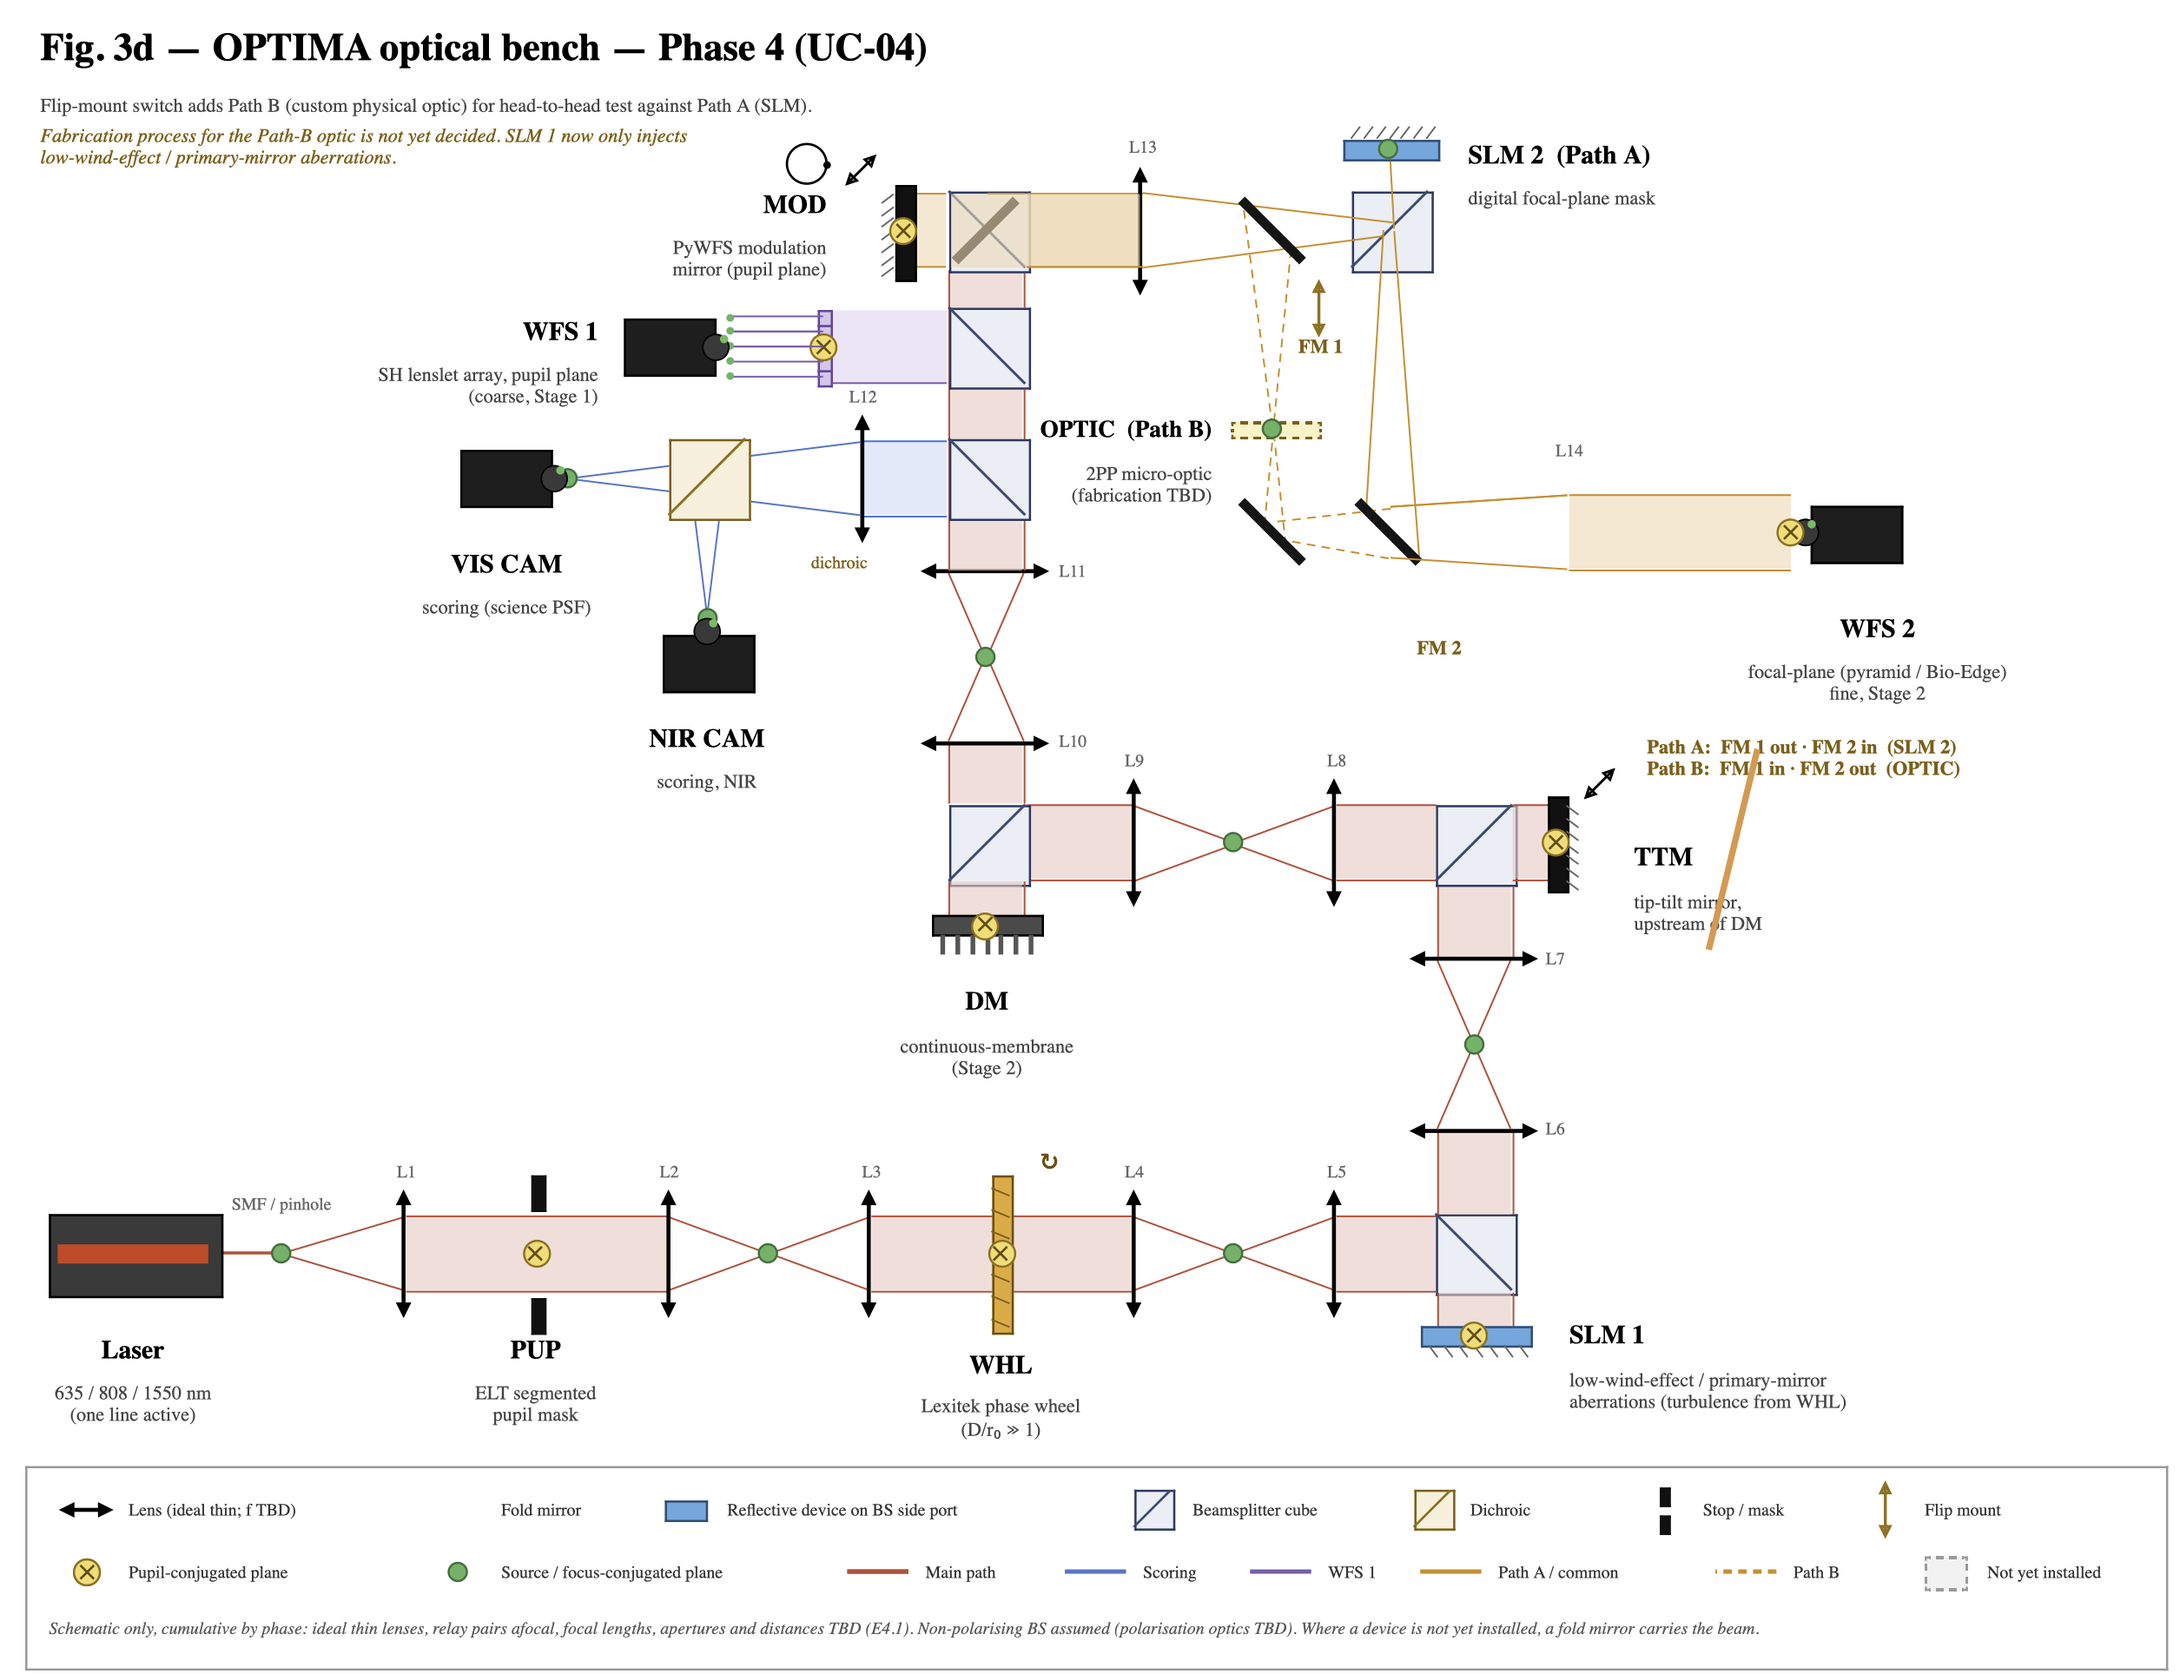
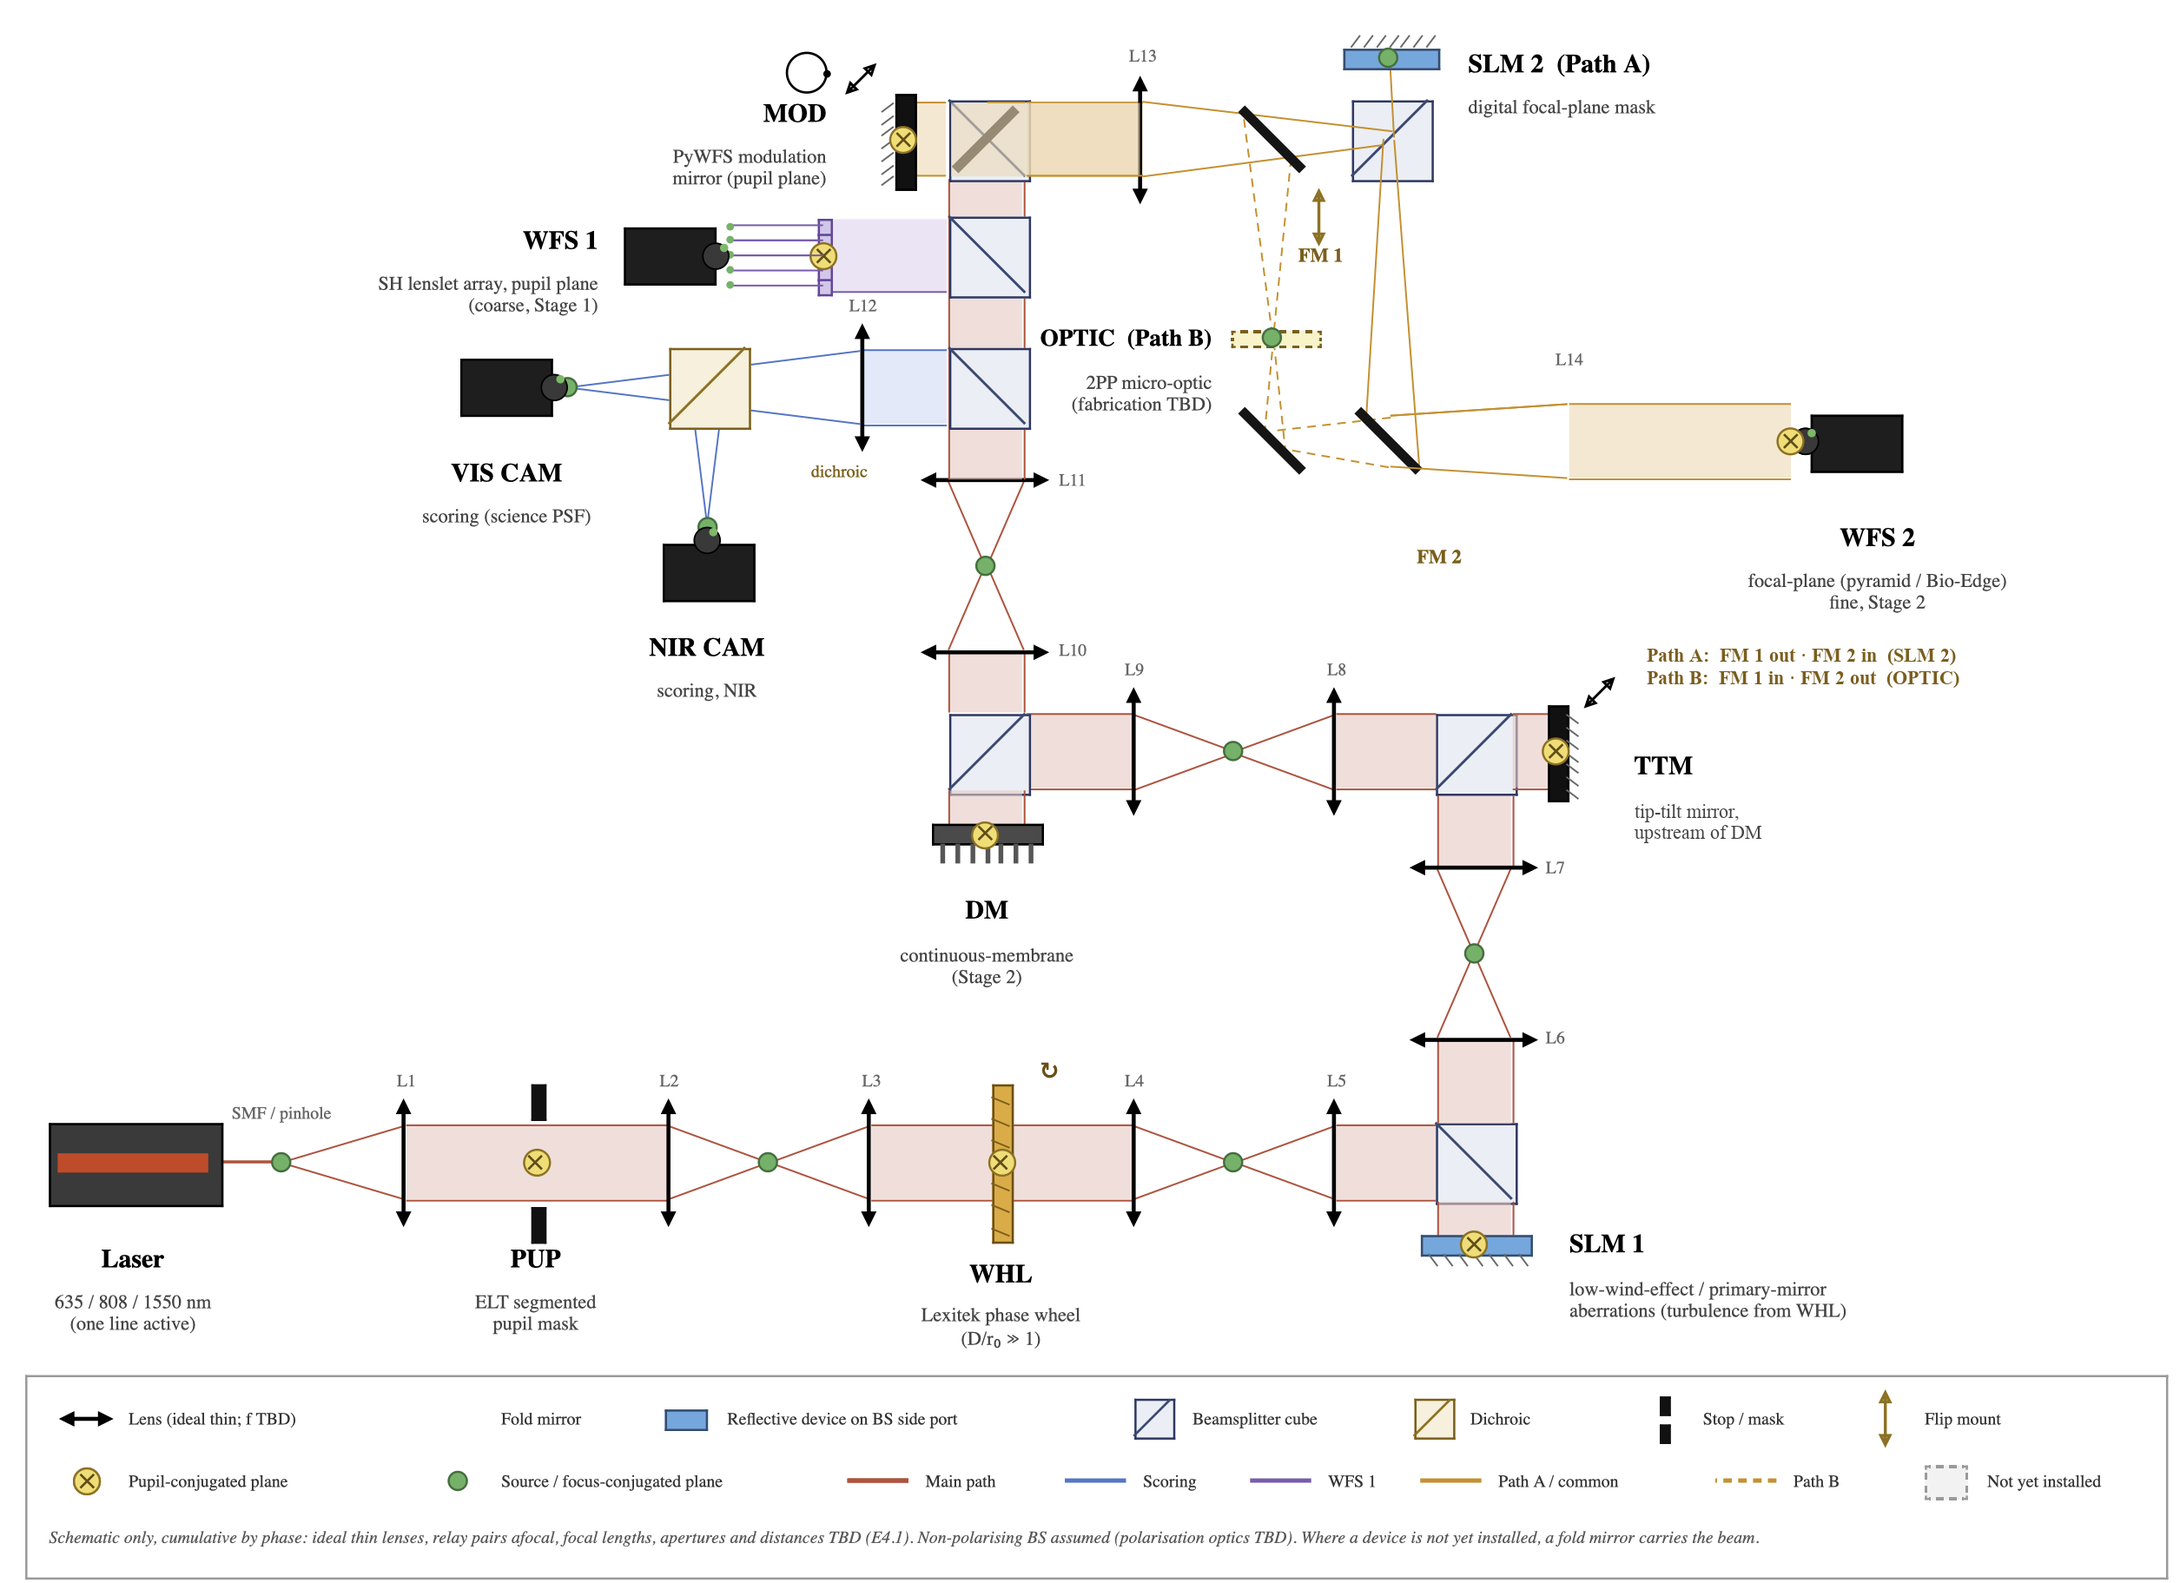
OPTIMA: clean up bench schematic
Remove the proposal figure title and draft note, erase the stray line across
the TTM label (redrawing the labels it crossed), and trim the empty top margin.

Changed region(s): [[0.0, 0.0, 0.9012, 0.6758], [0.0, 0.6758, 0.9944, 0.983], [0.808, 0.9216, 0.839, 0.9523]]

diff --git a/optima.html b/optima.html
@@ -3,7 +3,7 @@
 <meta name="viewport" content="width=device-width, initial-scale=1">
 <meta name="description" content="OPTIMA: Optical Precision Technology for Imaging and Mitigation of Aberrations. A COMPETE 2030 / FEDER co-promotion R&amp;D project (2026&ndash;2029) between Synopsis Planet, FEUP and Atlas Space and Defense, building an adaptive-optics testbed with hardware in the loop for novel wavefront sensors, multi-stage and AI-based control.">
 <meta property="og:title" content="OPTIMA &mdash; Optical Precision Technology for Imaging and Mitigation of Aberrations">
-<meta property="og:image" content="https://ccorreia.net/assets/img/optima/bench-schematic.png">
+<meta property="og:image" content="https://ccorreia.net/assets/img/optima/bench-schematic.png?v=2">
 <link rel="stylesheet" href="https://fonts.googleapis.com/css2?family=Fraunces:opsz,wght@9..144,400;9..144,500;9..144,600&family=Source+Sans+3:wght@400;600&family=IBM+Plex+Mono:wght@400;500&display=swap">
 <link rel="stylesheet" href="assets/css/site.css?v=20261120">
 <script src="assets/js/site.js?v=20261115" defer></script>
@@ -64,7 +64,7 @@
       </dl>
     </div>
     <figure class="schematic">
-      <a href="assets/img/optima/bench-schematic.png"><img src="assets/img/optima/bench-schematic.png" alt="Schematic of the OPTIMA optical bench in its Phase 4 configuration: laser source, ELT segmented pupil mask, phase wheel, SLM 1 for low-wind-effect aberrations, tip-tilt mirror, deformable mirror, Shack&ndash;Hartmann WFS 1, pyramid modulation mirror, SLM 2 digital focal-plane mask (Path A) or custom micro-optic (Path B) feeding focal-plane WFS 2, and visible and NIR scoring cameras." width="2510" height="1928" loading="lazy"></a>
+      <a href="assets/img/optima/bench-schematic.png?v=2"><img src="assets/img/optima/bench-schematic.png?v=2" alt="Schematic of the OPTIMA optical bench in its Phase 4 configuration: laser source, ELT segmented pupil mask, phase wheel, SLM 1 for low-wind-effect aberrations, tip-tilt mirror, deformable mirror, Shack&ndash;Hartmann WFS 1, pyramid modulation mirror, SLM 2 digital focal-plane mask (Path A) or custom micro-optic (Path B) feeding focal-plane WFS 2, and visible and NIR scoring cameras." width="2510" height="1823" loading="lazy"></a>
       <figcaption>Schematic of the Phase 4 configuration, not to scale (click to enlarge). A photograph will be added once all hardware is installed.</figcaption>
     </figure>
   </section>
